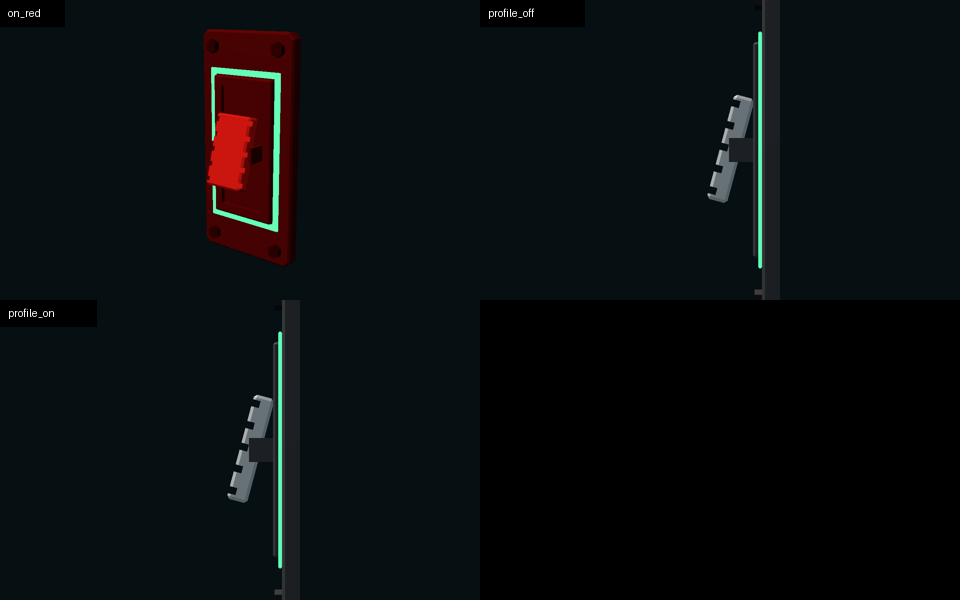
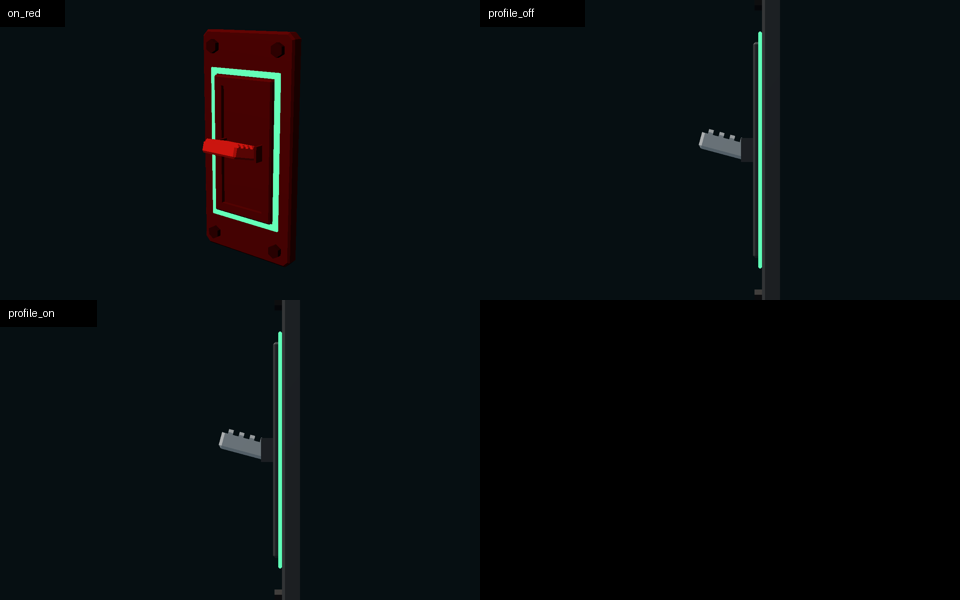
M18.5 · bat_toggle: stand the paddle up as a flip lever
Refs #702

Changed region(s): [[0.7188, 0.15, 0.7812, 0.33], [0.2188, 0.66, 0.2812, 0.84], [0.1875, 0.18, 0.2812, 0.33]]

diff --git a/tools/cadkit/scenes/bat_toggle.py b/tools/cadkit/scenes/bat_toggle.py
@@ -1,8 +1,8 @@
 """bat_toggle: a lit two-position bat switch on the 1x2 base, with a small swing and a low stand-out.
 
-Brief (concept #700): a light-grey paddle bat with deep horizontal grip ridges pivots about X at the centre of a shallow
+Brief (concept #700): a light-grey bat lever with deep horizontal grip ridges stands out of the bay and flips about X at the centre of a shallow
 recessed bay. A rectangular LED loop (led_strip's `loop_lens`) follows the bay's border: dark at off, lit at on. No round
-lamp. Behaviour: SwitchLever, whose `indicator` is the loop's IndicatorLamp. On presses the upper (+Y) end in.
+lamp. Behaviour: SwitchLever, whose `indicator` is the loop's IndicatorLamp. On tips the lever toward +Y.
 Three GLBs: the bay and frame (static), the paddle (own frame, pivot through the origin about X) and the loop lens.
 """
 import json
@@ -20,19 +20,20 @@ BASE = (1, 2)
 FRAME_W, FRAME_H_Y, FRAME_Z = 36.0, 72.0, 3.0      # raised frame round the bay (X, Y, height above the plate)
 BAY_W, BAY_H_Y, FLOOR_Z = 26.0, 62.0, 1.0          # the recess: floor FLOOR_Z above the plate
 LOOP_BAR, LOOP_GAP, LOOP_Z = 3.0, 0.5, 1.2         # LED loop round the frame
-PAD_W, PAD_L, PAD_BOT, PAD_TOP = 21.0, 36.0, -2.0, 5.0   # paddle, in its own frame (pivot on the X axis through the origin)
-GROOVES, GROOVE_W, GROOVE_D = 5, 2.4, 2.6
-HINGE_Z = PLATE_T_MM + FLOOR_Z + 8.0
+PAD_W, PAD_T, PAD_BOT, PAD_LEN = 21.0, 7.0, -2.0, 16.0   # paddle in its own frame: wide in X, thick in Y, standing out along +Z from the pivot on the X axis
+GROOVES, GROOVE_W, GROOVE_D = 4, 2.0, 1.6
+HINGE_Z = PLATE_T_MM + FLOOR_Z + 4.0
 SWING_DEG = 30.0                                   # total; +/-15 degrees about X
 MAX_STAND_OUT = 30.0                               # lit_toggle stands 56 mm out; this is about half
 
 
 def _paddle() -> bd.Shape:
-    pad = at(box(PAD_W, PAD_L, PAD_TOP - PAD_BOT, chamfer_mm=1.0), z=PAD_BOT)
-    pitch = (PAD_L - 6.0) / (GROOVES - 1)
+    """A flip-switch lever: stands out along +Z from the pivot, ridged across its +Y face (the face that leads on)."""
+    pad = at(box(PAD_W, PAD_T, PAD_LEN - PAD_BOT, chamfer_mm=1.0), z=PAD_BOT)
+    pitch = (PAD_LEN - 5.0) / (GROOVES - 1)
     for i in range(GROOVES):
-        y = -PAD_L / 2 + 3.0 + i * pitch
-        pad = pad - at(box(PAD_W + 2.0, GROOVE_W, GROOVE_D), 0, y, PAD_TOP - GROOVE_D)
+        z = 4.0 + i * pitch
+        pad = pad - at(box(PAD_W + 2.0, GROOVE_D, GROOVE_W), 0, PAD_T / 2 - GROOVE_D / 2 + 0.01, z - GROOVE_W / 2)
     return pad
 
 
@@ -68,7 +69,7 @@ def solids():
         expect((t & frame).volume < 1e-6, f"paddle clear of the frame at {sgn * half:+g} deg")
         stand = max(stand, thi[2])
     expect(stand <= MAX_STAND_OUT, f"stand-out {stand:.1f} mm, well under the bar toggle's 56 mm (limit {MAX_STAND_OUT})")
-    expect(stand > PLATE_T_MM + FRAME_Z, "paddle stands proud of the frame")
+    expect(stand > PLATE_T_MM + FRAME_Z + 8.0, "lever stands well proud of the frame")
     # the loop clear of the bolts and the bay
     for bx, by in scene_module("control_base").bolt_positions(*BASE):
         expect(abs(bx) - 3.5 >= lhi[0] or abs(by) - 3.5 >= lhi[1], f"loop clear of bolt {bx:g},{by:g}")
@@ -106,20 +107,20 @@ def build() -> dict:
     _review(d)
     write_entry(GROUP, SLUG, {
         "kind": "control",
-        "summary": "Lit bat toggle: a light grey paddle with deep grip ridges rocking about X in a shallow recessed bay, "
+        "summary": "Lit bat toggle: a light grey flip lever with deep grip ridges standing out of a shallow recessed bay and flipping up and down about X, "
                    "a small swing and low stand-out. A rectangular LED loop round the bay is lit at on and dark at off, "
                    "with nothing wired on the instance. No round lamp.",
         "tags": ["toggle", "switch", "bat", "paddle", "lit", "led", "on-off", "indicator", "low-profile"],
         "scene": res(d / f"{SLUG}.tscn"),
-        "behaviour": {"script": "SwitchLever", "values": "0 off (upper end out, loop dark), 1 on (upper end pressed in, loop lit)",
+        "behaviour": {"script": "SwitchLever", "values": "0 off (lever tipped to -Y, loop dark), 1 on (lever tipped to +Y, loop lit)",
                       "signal": "value_changed", "wiring": "none: `indicator` is set to the IndicatorLamp node"},
         "base": f"{BASE[0]}x{BASE[1]}",
         "footprint_mm": [w, h],
         "stand_out_mm": math.ceil(stand),
-        "swing_envelope": {"swing_deg": SWING_DEG, "paddle_travel_deg": "+/-15 about X through the centre",
+        "swing_envelope": {"swing_deg": SWING_DEG, "paddle_travel_deg": "+/-15 about X; the lever tip travels along Y",
                            "within_mm": [BAY_W, BAY_H_Y], "stand_out_mm": math.ceil(stand),
                            "note": "the bar toggle (lit_toggle) stands 56 mm out"},
-        "mount": "back on Z=0, centred; front +Z; on presses the upper (+Y) end in; the LED loop encircles the bay",
+        "mount": "back on Z=0, centred; front +Z; on flips the lever toward +Y; the LED loop encircles the bay",
         "set_on_instance": {"label": "name at the aiming point"},
         "uses": USES,
         "triangles": tris,
